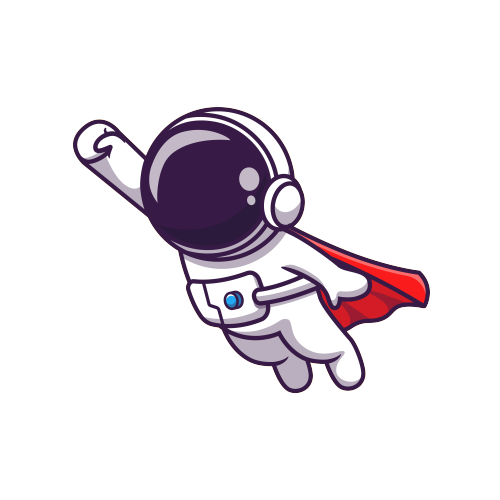
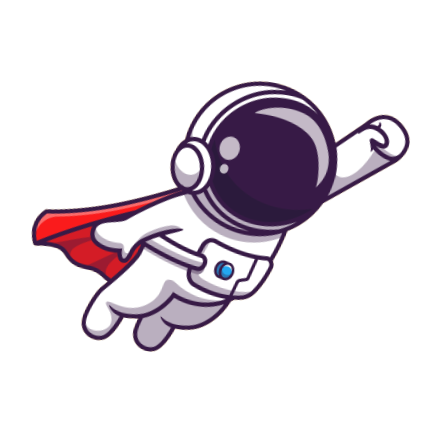
Rotate astronaut image itself and modify css

Changed region(s): [[0.06, 0.1806, 0.9607, 0.8125]]

diff --git a/src/styles/login.css b/src/styles/login.css
@@ -41,9 +41,9 @@
     top: 58%;
     left: calc(50% + 50px);
     cursor: pointer;
-    transform: translate(-50%, -50%) rotateY(170deg);
+    transform: translate(-50%, -50%);
     transition: transform 350ms;
-    z-index: 2;
+    z-index: 3;
     user-select: none;
 }
 .login__astronaut--animated {
@@ -55,7 +55,7 @@
         bottom: 7vw;
         left: 5vw;
         right: auto;
-        transform: rotateY(170deg);
+        transform: none;
         height: 40vw;
         width: 40vw;
     }
@@ -66,7 +66,7 @@
 
 @media (hover: hover) and (min-width: calc(640px + 1px)) {
     .login__astronaut:hover, .login__button:hover ~ .login__astronaut {
-        transform: translate(-50%, -50%) rotateY(170deg) rotateZ(-20deg);
+        transform: translate(-50%, -50%) rotateZ(15deg);
     }
     .login__button:hover, .login__button:has(~.login__astronaut:hover) {
         background-color: var(--dark-theme-button-hover);
@@ -76,21 +76,21 @@
 
 @keyframes fly {
     0% {
-        transform: translate(-50%, -50%) rotateY(170deg) rotateZ(-20deg);
+        transform: translate(-50%, -50%) rotateZ(20deg);
         opacity: 1;
     }
     100% {
         opacity: 0;
-        transform: rotateY(170deg) rotateZ(-30deg) translate(-1000%, -800%) scale3d(0.2, 0.2, 0.2);
+        transform: rotateZ(30deg) translate(2000px, -2000px) scale3d(0.2, 0.2, 0.2);
     }
 }
 @keyframes flyMobile {
     0% {
-        transform: rotateY(170deg);
         opacity: 1;
+        transform: none;
     }
     100% {
         opacity: 0;
-        transform: rotateY(170deg) rotateZ(-30deg) translate(-3000px, -1000px) scale3d(0.2, 0.2, 0.2);
+        transform: rotateZ(30deg) translate(2000px, -1000px) scale3d(0.2, 0.2, 0.2);
     }
 }
